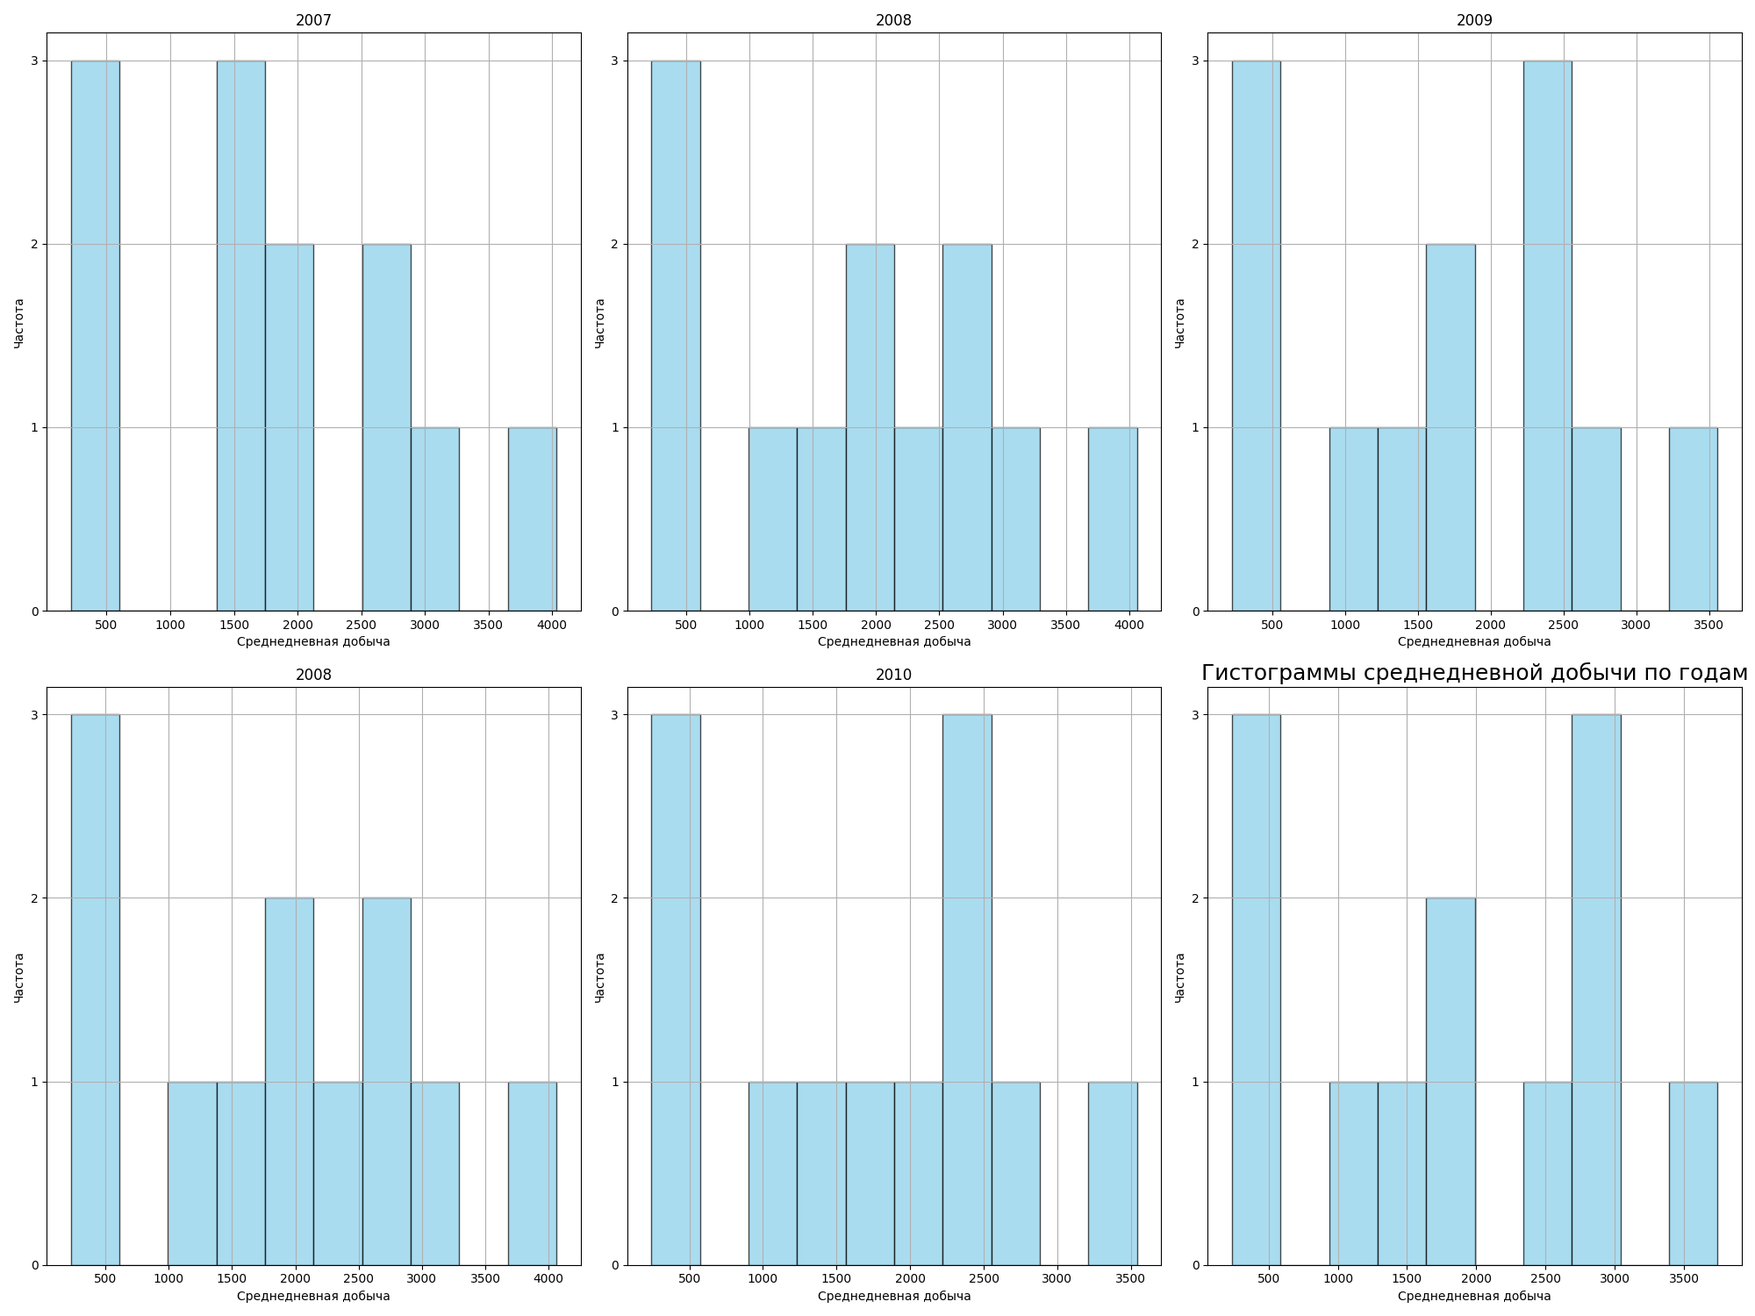
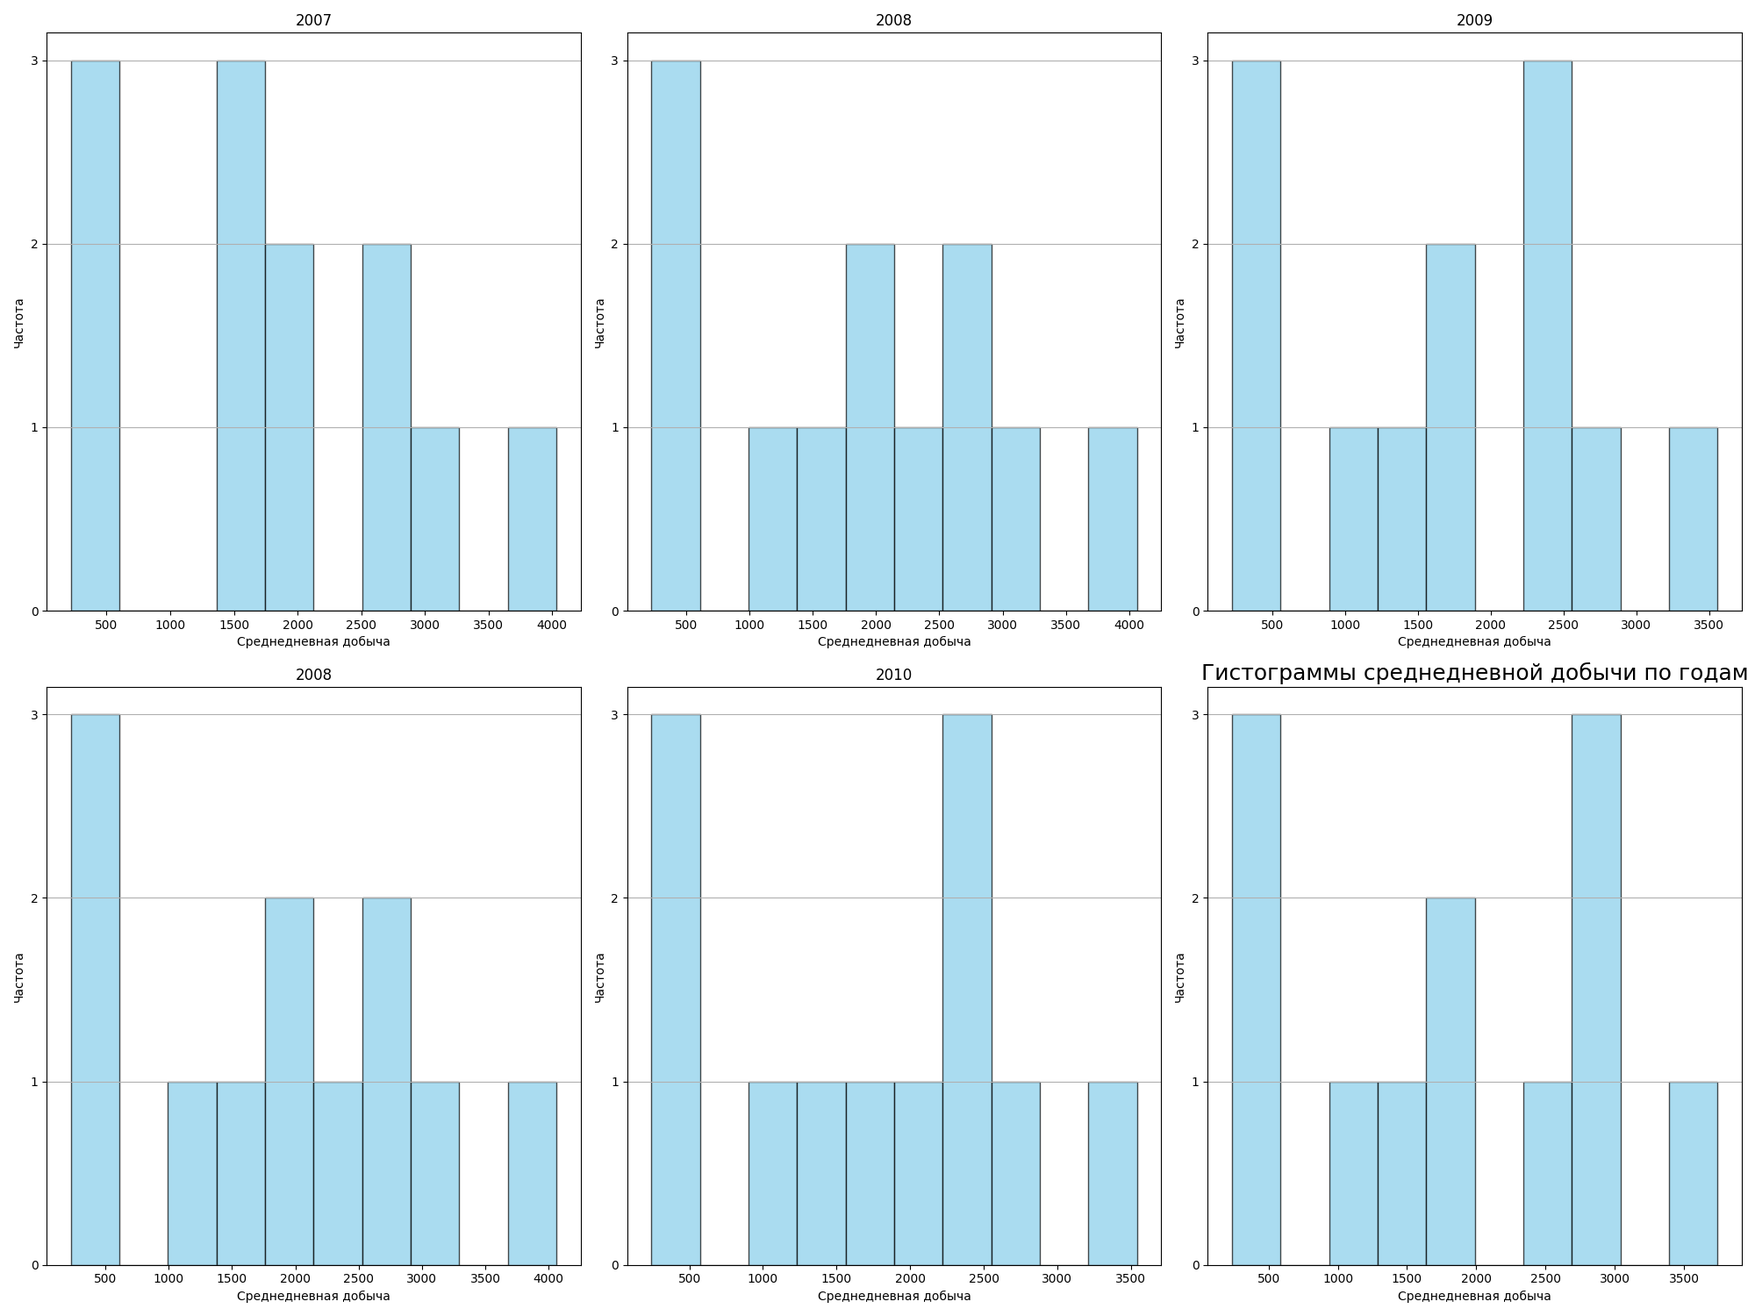
add country checkboxes and years slider

diff --git a/Work/Library/pages.py b/Work/Library/pages.py
@@ -7,8 +7,9 @@ from flet_route import Params, Basket
 from flet.matplotlib_chart import MatplotlibChart
 import matplotlib
 from Scripts import graphics_generator
+from Library import data
 
-def TitleBar(page: ft.page):
+def TitleBar(page: ft.Page):
     def maximize_win(e):
         page.window_maximized = True
         page.update()
@@ -98,9 +99,6 @@ def TitleBar(page: ft.page):
                     )  
         ], 
     )
-
-###### REPORTS ###### REPORTS ###### REPORTS ###### REPORTS ###### REPORTS ###### REPORTS ######
-###### REPORTS ###### REPORTS ###### REPORTS ###### REPORTS ###### REPORTS ###### REPORTS ######
 
 def Reports(page: ft.Page, params: Params, basket: Basket):
     
@@ -264,72 +262,84 @@ def Home(page: ft.Page, params: Params, basket: Basket):
     )
 
 def Graphics(page: ft.Page, params: Params, basket: Basket):
-    def open_configure_window(func, atr):
-        #fig = func(0, atr)
-        #put_graph(fig)
+    def open_configure_window(plot_func, atr='', countries_disabled=False):
+        start = end = 0
+        countries = dict(zip(data.get_countries(), [True] * len(data.get_countries())))
+
+        def change_period(e):
+            nonlocal start, end
+            start = e.control.start_value
+            start = round(float(start))
+            end = e.control.end_value
+            end = round(float(end))
+        
+        def build_new(e):
+            nonlocal start, end, countries
+            if not countries_disabled and atr=='':
+                fig = plot_func(start, end, countries)
+            else:
+                fig = plot_func(atr, start, end)
+            put_graph(fig)
+
+        fig = plot_func(atr)
 
         file_picker = ft.FilePicker(on_result=lambda e: graphics_generator.save_graph(fig, e.path))
         page.overlay.append(file_picker)
-        
-        page.views[0].controls[2] = ft.Container(
-            content=ft.Row(
-                [   
-                    ft.Column(
-                        [
-                            ft.Checkbox(label="1", value=True), ft.Checkbox(label="2", value=True)
-                        ],
-                        alignment=ft.MainAxisAlignment.CENTER,
-                        horizontal_alignment=ft.CrossAxisAlignment.CENTER,
-                        width = page.window_width / 4,
-                    ),
 
-                    ft.Column(
-                        [
-                            
-                        ],
-                        alignment=ft.MainAxisAlignment.CENTER,
-                        horizontal_alignment=ft.CrossAxisAlignment.CENTER,
-                        width = page.window_width / 2,
-                    ),
-
-                    ft.Column(
-                        [
-                            ft.ElevatedButton("Сохранить график",
+        countries_checkboxes = []
+        for c in countries.keys():
+            countries_checkboxes.append(ft.Checkbox(label=c, disabled=countries_disabled, value=True))
+        page.views[0].controls[2].content.controls[0].controls = [
+            ft.Container(
+                content = ft.Column(
+                    [   
+                        ft.Column(
+                            [
+                                ft.Text("Период",  weight=ft.FontWeight.BOLD,),
+                                ft.RangeSlider(
+                                    min=min(data.get_years()),
+                                    max=max(data.get_years()),
+                                    start_value=2006,
+                                    divisions=17,
+                                    end_value=2022,
+                                    inactive_color=ft.colors.BLUE_100,
+                                    active_color=ft.colors.BLUE_500,
+                                    overlay_color=ft.colors.BLUE_200,
+                                    label="{value}",
+                                    on_change=change_period,
+                                ),
+                            ]
+                        ),
+                        ft.Column(
+                            [ft.Text("Страны",  weight=ft.FontWeight.BOLD)] + countries_checkboxes
+                        ),
+                        ft.ElevatedButton(
+                            "Построить",
+                            on_click=build_new
+                        )
+                    ],
+                    alignment = ft.MainAxisAlignment.START,
+                    horizontal_alignment = ft.CrossAxisAlignment.START
+                ),
+                padding = 10,
+            )
+            
+        ]
+        page.views[0].controls[2].content.controls[2].controls = [
+            ft.ElevatedButton("Сохранить график",
                                 on_click=lambda _: file_picker.save_file(allowed_extensions=['png']),
                                 disabled=True
-                            )
-                        ],
-                        alignment=ft.MainAxisAlignment.CENTER,
-                        horizontal_alignment=ft.CrossAxisAlignment.CENTER,
-                        width = page.window_width / 4,
-                    ),
-                ]
-            ),
-            alignment=ft.alignment.center,
-            width = page.window_width,
-            height = page.window_height - 100,
-        ) 
+            )
+        ]
         page.update()
+        put_graph(fig)
     
     def put_graph(fig):
-        page.views[0].controls[2].content.controls[1] =  ft.Column(
-            [
-                ft.ProgressRing()
-            ],
-            alignment=ft.MainAxisAlignment.CENTER,
-            horizontal_alignment=ft.CrossAxisAlignment.CENTER,
-            width = page.window_width / 2,
-        ),
+        page.views[0].controls[2].content.controls[1].controls = [ft.ProgressRing()]
+        page.views[0].controls[2].content.controls[2].controls[0].disabled=True
         page.update()
-        page.views[0].controls[2].content.contols[1] = ft.Column(
-            [
-                MatplotlibChart(fig)
-            ],
-            alignment=ft.MainAxisAlignment.CENTER,
-            horizontal_alignment=ft.CrossAxisAlignment.CENTER,
-            width = page.window_width / 2,
-        ),
-        page.views[0].controls[2].content.contols[2].controls.disabled=False
+        page.views[0].controls[2].content.controls[1].controls = [MatplotlibChart(fig)]
+        page.views[0].controls[2].content.controls[2].controls[0].disabled=False
         page.update()
         
     return ft.View(
@@ -360,12 +370,12 @@ def Graphics(page: ft.Page, params: Params, basket: Basket):
                                 controls=[
                                     ft.MenuItemButton(
                                         content=ft.Text("Курс рубля"),
-                                        on_click = lambda _: open_configure_window(graphics_generator.plot_graph, 'Курс')
+                                        on_click = lambda _: open_configure_window(graphics_generator.plot_graph, 'Курс', countries_disabled=True)
                                     ),
                         
                                     ft.MenuItemButton(
                                         content=ft.Text("Цена на нефть"),
-                                        on_click = lambda _: open_configure_window(graphics_generator.plot_graph, 'Цена')
+                                        on_click = lambda _: open_configure_window(graphics_generator.plot_graph, 'Цена', countries_disabled=True)
                                     ),
                                 ]
                             ),
@@ -380,12 +390,12 @@ def Graphics(page: ft.Page, params: Params, basket: Basket):
                                 controls=[
                                     ft.MenuItemButton(
                                         content=ft.Text("Курс рубля"),
-                                        on_click = lambda _: open_configure_window(graphics_generator.plot_boxwhiskers, 'Курс')
+                                        on_click = lambda _: open_configure_window(graphics_generator.plot_boxwhiskers, 'Курс', countries_disabled=True)
                                     ),
                         
                                     ft.MenuItemButton(
                                         content=ft.Text("Цена на нефть"),
-                                        on_click = lambda _: open_configure_window(graphics_generator.plot_boxwhiskers, 'Цена')
+                                        on_click = lambda _: open_configure_window(graphics_generator.plot_boxwhiskers, 'Цена', countries_disabled=True)
                                     ),
                             
                                     ft.MenuItemButton(
@@ -408,7 +418,7 @@ def Graphics(page: ft.Page, params: Params, basket: Basket):
                             
                             ft.MenuItemButton(
                                 content=ft.Text("Рассеивание"),
-                                on_click=lambda _: open_configure_window(graphics_generator.plot_scatter, 'Algeria')
+                                on_click=lambda _: open_configure_window(graphics_generator.plot_scatter)
                             )
                         ],
                     )
@@ -416,7 +426,39 @@ def Graphics(page: ft.Page, params: Params, basket: Basket):
                 alignment=ft.MainAxisAlignment.CENTER,
             ),
             ft.Container(
-                
+                content=ft.Row(
+                    [   
+                        ft.Column(
+                            [
+
+                            ],
+                            alignment=ft.MainAxisAlignment.CENTER,
+                            horizontal_alignment=ft.CrossAxisAlignment.CENTER,
+                            width = page.window_width / 4,
+                        ),
+
+                        ft.Column(
+                            [
+                                
+                            ],
+                            alignment=ft.MainAxisAlignment.CENTER,
+                            horizontal_alignment=ft.CrossAxisAlignment.CENTER,
+                            width = page.window_width / 2,
+                        ),
+
+                        ft.Column(
+                            [
+
+                            ],
+                            alignment=ft.MainAxisAlignment.END,
+                            horizontal_alignment=ft.CrossAxisAlignment.CENTER,
+                            width = page.window_width / 4,
+                        ),
+                    ]
+                ),
+                alignment=ft.alignment.center,
+                width = page.window_width,
+                height = page.window_height - 100,
             )
            
         ],
@@ -442,7 +484,7 @@ def Info(page: ft.Page, params: Params, basket: Basket):
                                             " Мирумян Артём\n Рахматуллин Айгиз",
                                         )
                                     ],
-                                    color="#00008b", size=20, text_align="CENTER"
+                                    color="white", size=20, text_align="CENTER"
                                 ),
                             ], 
                             alignment=ft.MainAxisAlignment.CENTER,

diff --git a/Work/Scripts/graphics_generator.py b/Work/Scripts/graphics_generator.py
@@ -10,7 +10,7 @@ from Library import data
 
 matplotlib.use('agg')
 
-def plot_boxwhiskers(period, atribute):
+def plot_boxwhiskers(atribute, start=2006, end=2022, countries={}):
     margins = {                                                                                         
         "left"   : 0.06,
         "bottom" : 0.03,
@@ -20,7 +20,10 @@ def plot_boxwhiskers(period, atribute):
     fig = plt.figure()
     fig.subplots_adjust(**margins)  
     if atribute == 'Курс':
-        column = data.dates[atribute]
+        df = data.dates[['Дата', 'Курс']].copy()
+        df['Дата'] = pd.to_datetime(df['Дата'], format='mixed', dayfirst=True).dt.year
+        df = df[df['Дата'] <= end and df['Дата'] >= start]
+        column = df[atribute]
         fig.set_size_inches(10, 10)
         plt.ylabel('1$/1P')
         plt.boxplot(column, showmeans=True)
@@ -28,7 +31,10 @@ def plot_boxwhiskers(period, atribute):
         plt.yticks(np.linspace(min(column), max(column), endpoint=True))
         path = paths.graphics_dir + "/Box&Whiskers" + "/Курс.png"
     elif atribute == 'Цена':
-        column = data.dates[atribute]
+        df = data.dates[['Дата', 'Цена']].copy()
+        df['Дата'] = pd.to_datetime(df['Дата'], format='mixed', dayfirst=True).dt.year
+        df = df[df['Дата'] <= end and df['Дата'] >= start]
+        column = df[atribute]
         fig.set_size_inches(10, 10)
         plt.ylabel('Рубли')
         plt.boxplot(column, showmeans=True)
@@ -38,6 +44,7 @@ def plot_boxwhiskers(period, atribute):
     elif atribute == 'Добыча':
         df = data.main[['Дата', 'Страна', 'Добыча']].copy()
         df['Дата'] = pd.to_datetime(df['Дата'], format='mixed', dayfirst=True).dt.year
+        df = df[df['Дата'] <= end and df['Дата'] >= start]
         df.groupby(['Страна', 'Дата'])['Добыча'].mean()
         grouped_data = df.groupby(['Страна'])['Добыча'].agg(list)
         fig.set_size_inches(15, 10)
@@ -51,12 +58,12 @@ def plot_boxwhiskers(period, atribute):
         path = paths.graphics_dir + "/Box&Whiskers" + "/Добыча.png"
         
     plt.grid(True)
-    plt.title(f'{atribute} 2006-2022 гг.')
+    plt.title(f'{atribute} {start}-{end} гг.')
     if not os.path.exists(path):
         save_graph(fig, path)
     return fig
 
-def plot_graph(period, atribute):
+def plot_graph(atribute, start=2006, end=2022):
     margins = {                                                                                         
         "left"   : 0.05,
         "bottom" : 0.05,
@@ -66,13 +73,18 @@ def plot_graph(period, atribute):
     fig = plt.figure(figsize=(20,15))
     fig.subplots_adjust(**margins)  
     if (atribute == 'Курс'):
-        plt.plot(pd.to_datetime(data.dates['Дата'], format="%d.%m.%Y"), data.dates['Курс'], label='Курс рубля')
-        plt.title('Курс 2006-2022 гг.', fontsize=18)
+        df = data.dates[['Дата', 'Курс']].copy()
+        df['Дата'] = pd.to_datetime(data.dates['Дата'], format="%d.%m.%Y")
+        df = df[(df['Дата'].dt.year <= end) & (df['Дата'].dt.year >= start)]
+        plt.plot(df['Дата'], df['Курс'], label='Курс рубля')
         path = paths.graphics_dir + "/Графики" + "/Курс.png"
     elif (atribute == 'Цена'):
-        plt.plot(pd.to_datetime(data.dates['Дата'], format="%d.%m.%Y"), data.dates['Цена'], label='Цена на нефть')
-        plt.title('Цена на нефть 2006-2022 гг.', fontsize=18)
+        df = data.dates[['Дата', 'Цена']].copy()
+        df['Дата'] = pd.to_datetime(data.dates['Дата'], format="%d.%m.%Y")
+        df = df[(df['Дата'].dt.year <= end) & (df['Дата'].dt.year >= start)]
+        plt.plot(df['Дата'], df['Цена'], label='Цена на нефть')
         path = paths.graphics_dir + "/Графики" + "/Цена.png"
+    plt.title(f'{atribute} {start}-{end} гг.', fontsize=18)
     plt.xlabel('Дата', fontsize=18)
     plt.ylabel('Рубли', fontsize=18)
     plt.xticks(rotation=0)
@@ -83,9 +95,10 @@ def plot_graph(period, atribute):
         save_graph(fig, path)
     return fig
     
-def hist(period, atribute):
+def hist(start=2006, end=2022, countries={}):
     df = data.main[['Дата', 'Страна', 'Добыча']].copy()
     df['Дата'] = pd.to_datetime(df['Дата'], format='mixed', dayfirst=True).dt.year
+    df = df[(df['Дата'] <= end) & (df['Дата'] >= start)]
     grouped_data = df.groupby(['Страна', 'Дата'], as_index=False)['Добыча'].mean()
 
     years = data.get_years()
@@ -99,19 +112,18 @@ def hist(period, atribute):
             ax[i, j].set_title(years[(i + 1) * (j + 1)])
             ax[i, j].yaxis.set_major_locator(MultipleLocator(base = 1))
             ax[i, j].xaxis.set_major_locator(MultipleLocator(base = 500)) 
-            ax[i, j].grid()
+            ax[i, j].grid(True, axis='y')
             ax[i, j].set_xlabel('Среднедневная добыча')
             ax[i, j].set_ylabel('Частота')
             
     plt.title('Гистограммы среднедневной добычи по годам', fontsize=18)
-    plt.grid(True, axis='y')
     plt.tight_layout()
     path = paths.graphics_dir + "/Гистограмма" + "/Добыча.png"
     if not os.path.exists(path):
         save_graph(fig, path)
     return fig
 
-def diag(period, atribute):
+def diag(atribute, start=2006, end=2022, countries={}):
     df = data.main[['Дата', 'Страна', 'Добыча']].copy()
     df['Дата'] = pd.to_datetime(df['Дата'], format='mixed', dayfirst=True).dt.year
     grouped_data = df.groupby(['Страна', 'Дата'], as_index=False)['Добыча'].mean()
@@ -150,7 +162,7 @@ def diag(period, atribute):
         save_graph(fig, path)
     return fig
 
-def plot_scatter(period, atribute):
+def plot_scatter(atribute, start=2006, end=2022, countries={}):
     margins = {                                                                                         
         "left"   : 0.06,
         "bottom" : 0.06,
@@ -162,14 +174,15 @@ def plot_scatter(period, atribute):
     price = data.dates['Цена']
     df = data.main[['Страна', 'Добыча']].copy()
     grouped_data = df.groupby('Страна')['Добыча'].agg(list)
-    plt.scatter(price, grouped_data['Algeria'], label='Algeria', s=10)
+    for c, prod in grouped_data.items():
+        plt.scatter(price, prod, label=c, s=10)
     plt.title('Категоризированная диаграмма рассеивания:', fontsize=18)
     plt.xlabel('Цена за баррель', fontsize=18)
     plt.ylabel('Добыча дневная (1000 баррелей/день)', fontsize=18)
     plt.legend(title='Название страны')
     plt.tick_params(axis='both', labelsize=14)
     plt.grid(True)
-    path = paths.graphics_dir + "/Рассеивание" + "/Algeria.png"
+    path = paths.graphics_dir + "/Рассеивание" + "/Все.png"
     if not os.path.exists(path):
         save_graph(fig, path)
     return fig

diff --git a/Work/Library/data.py b/Work/Library/data.py
@@ -16,7 +16,7 @@ def get_years():
     return years
 
 def get_countries():
-    return main[['Страна']].unique()
+    return main['Страна'].unique()
 
 def collect_to_main(path):
     global main
